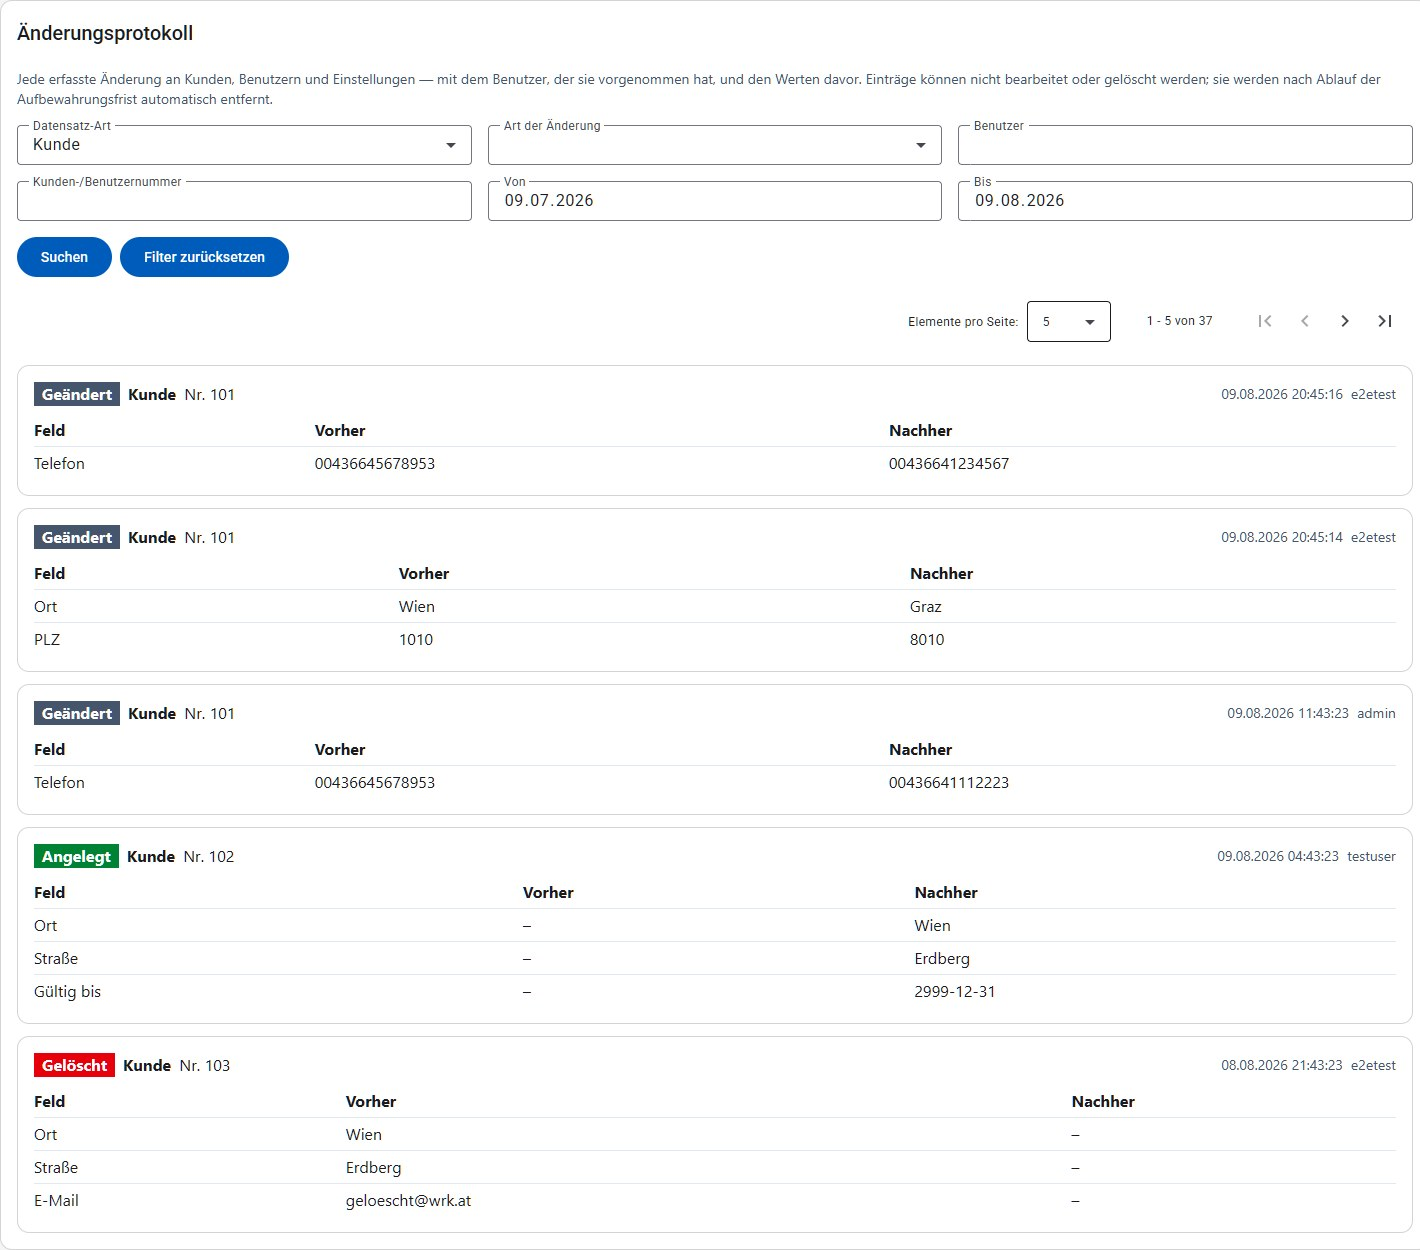
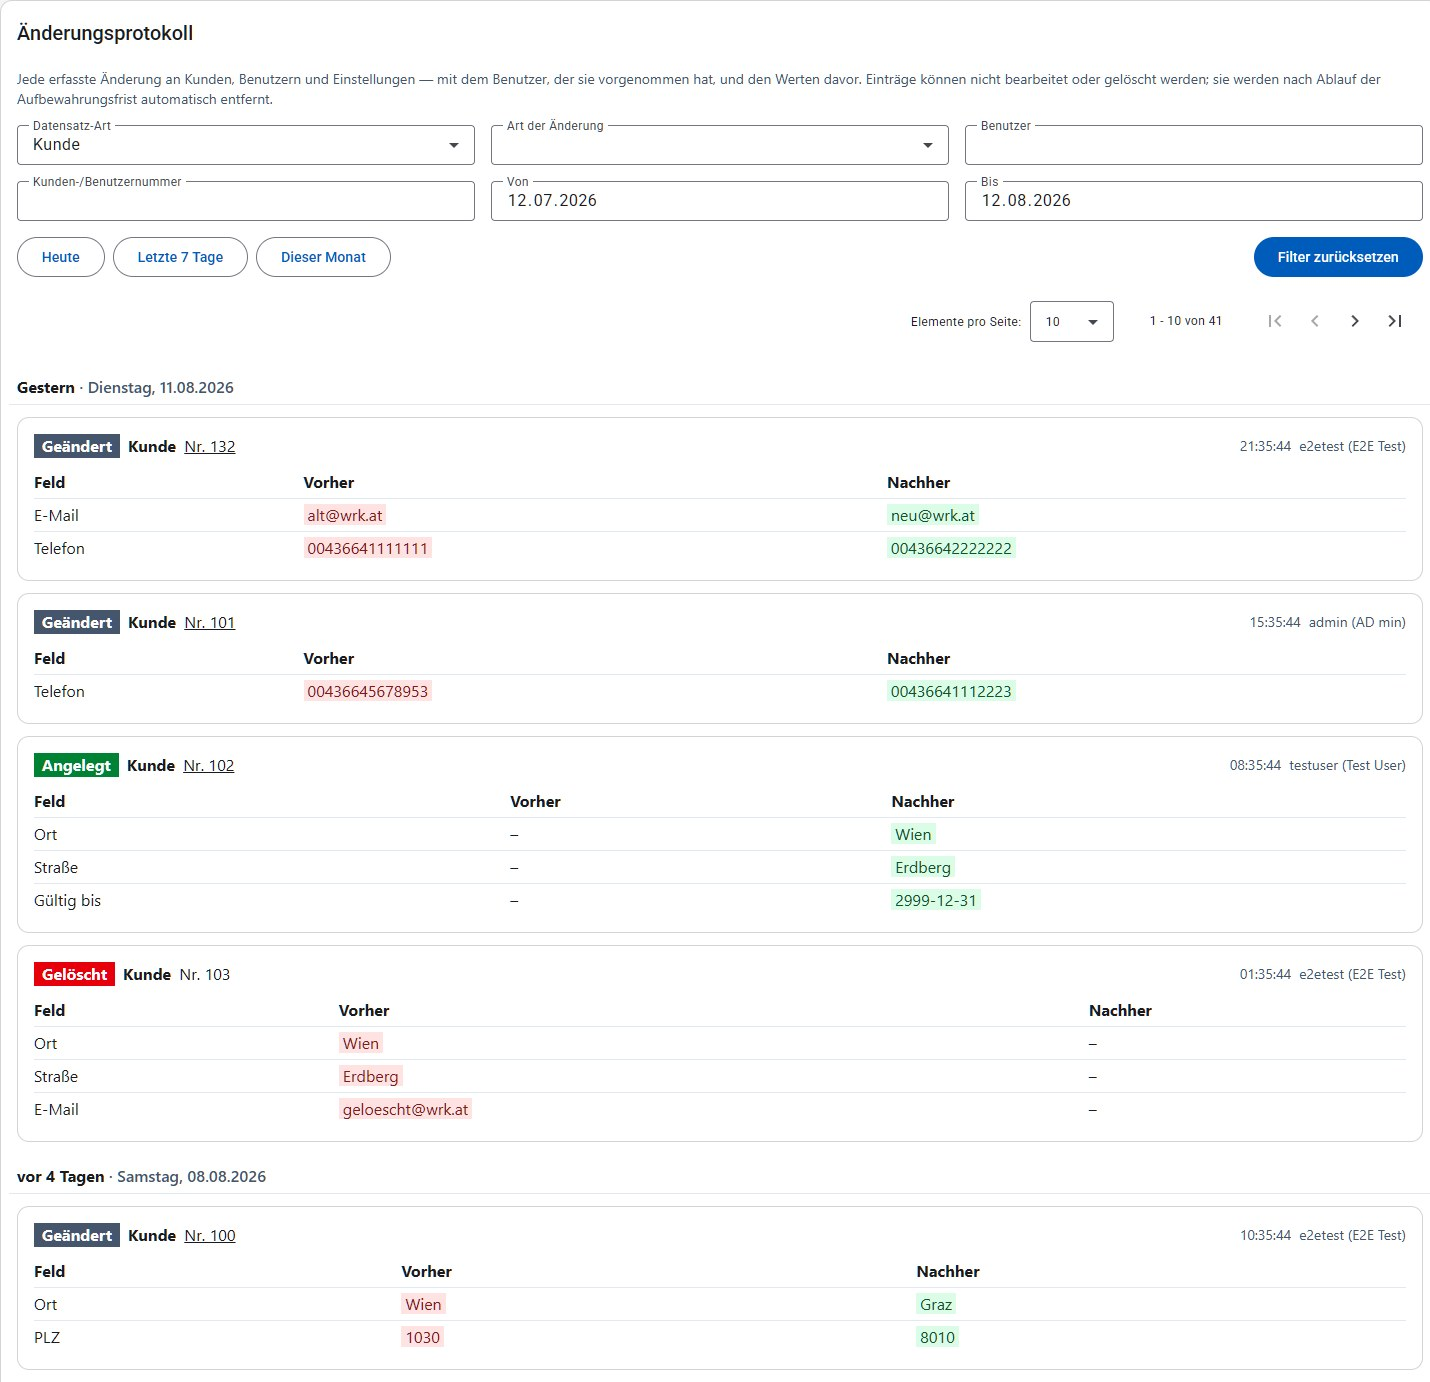
docs(audit): refresh the change log screenshots for the reworked screen

diff --git a/frontend/src/main/webapp/src/app/common/components/audit-entry-list/audit-entry-list.component.spec.ts b/frontend/src/main/webapp/src/app/common/components/audit-entry-list/audit-entry-list.component.spec.ts
@@ -147,7 +147,7 @@ describe('AuditEntryListComponent', () => {
       expect(element.querySelector('[testid="audit-day-0-relative"]')?.textContent?.trim()).toBe('vor 3 Tagen');
       expect(element.querySelector('[testid="audit-day-1-relative"]')).toBeNull();
       expect(element.querySelector('[testid="audit-day-1-date"]')?.textContent?.trim())
-        .toBe(dayjs().subtract(30, 'day').format('DD.MM.YYYY'));
+        .toContain(dayjs().subtract(30, 'day').format('DD.MM.YYYY'));
     });
   });
 
